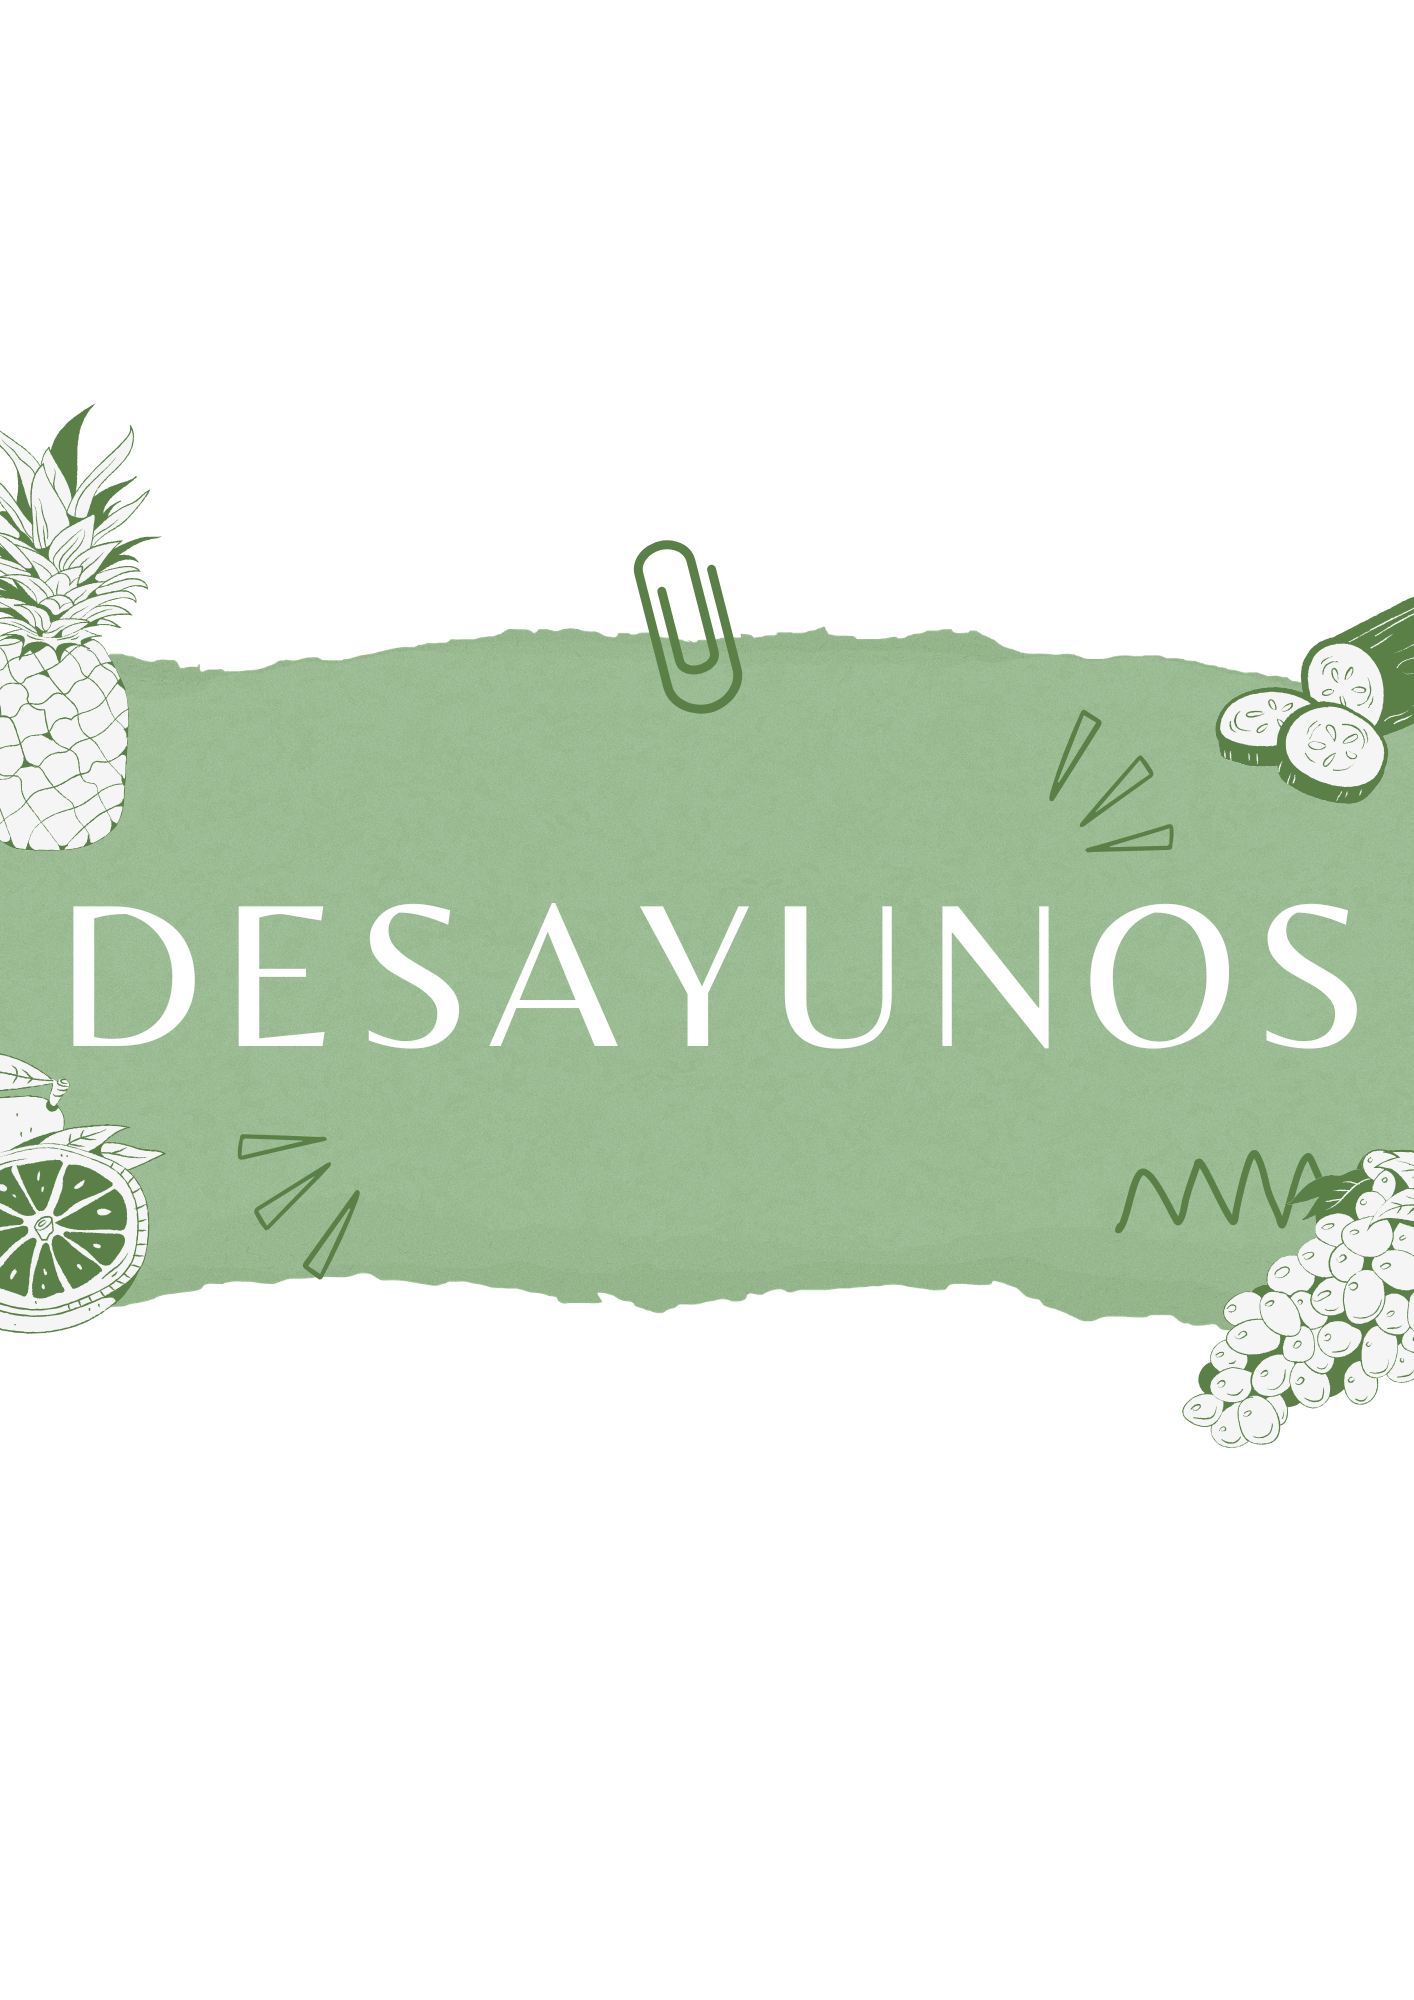
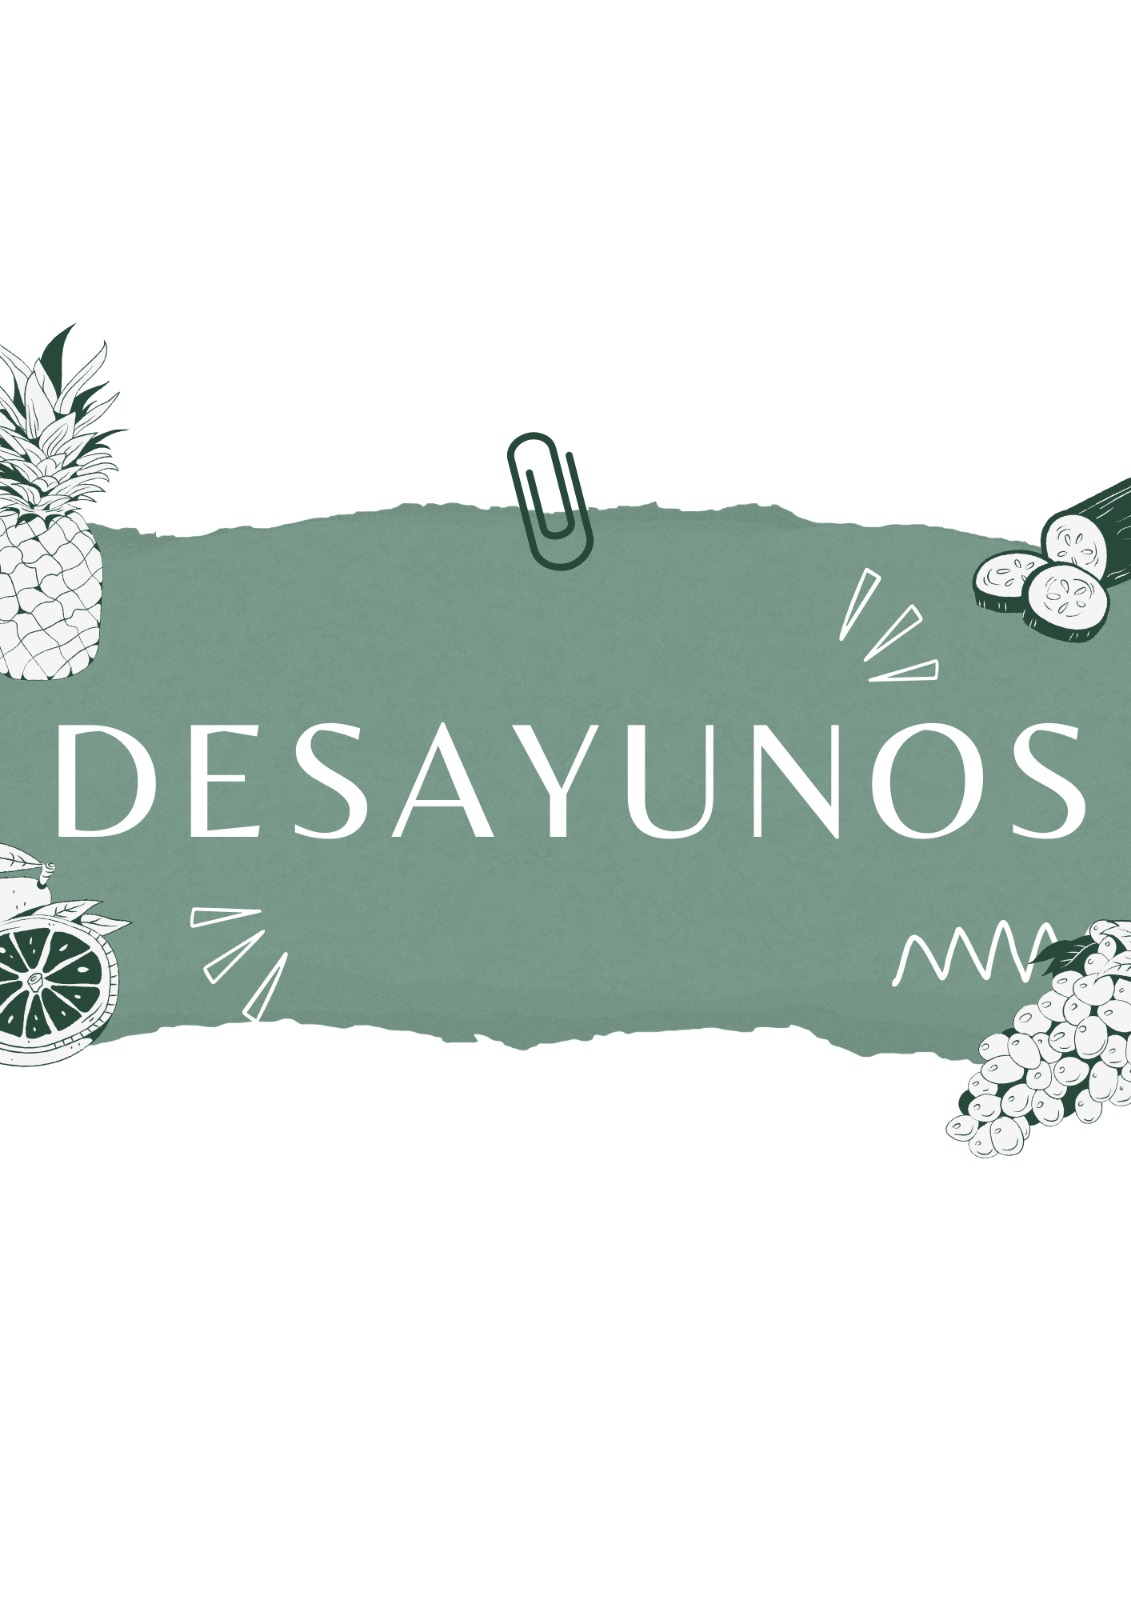
fix: Auto-detect JPEG covers and update schema colors

Changed region(s): [[0.0, 0.1875, 1.0, 0.7188]]

diff --git a/src/utils/planPdfGenerator.js b/src/utils/planPdfGenerator.js
@@ -114,7 +114,8 @@ export const generatePlanPdf = async (plan, items, nutritionist, patient) => {
         // Draw Left Logo (if loaded)
         if (logoImg) {
             // Keep proportion roughly intact (assuming it's a typical logo shape, adjust dimensions as needed)
-            doc.addImage(logoImg, 'PNG', margins.left, 2, 16, 16, undefined, 'FAST');
+            const format = logoImg.startsWith('/9j/') ? 'JPEG' : 'PNG';
+            doc.addImage(logoImg, format, margins.left, 2, 16, 16, undefined, 'FAST');
         }
 
         // Draw Center Text (Section Name)
@@ -169,7 +170,8 @@ export const generatePlanPdf = async (plan, items, nutritionist, patient) => {
         // Email
         if (mailLogoImg) {
             // Adjust y offset to roughly match text baseline
-            doc.addImage(mailLogoImg, 'PNG', currentX, footerY - 3, iconSize, iconSize, undefined, 'FAST');
+            const format = mailLogoImg.startsWith('/9j/') ? 'JPEG' : 'PNG';
+            doc.addImage(mailLogoImg, format, currentX, footerY - 3, iconSize, iconSize, undefined, 'FAST');
             currentX += iconSize + 1;
         }
         doc.text(emailContact, currentX, footerY);
@@ -183,7 +185,8 @@ export const generatePlanPdf = async (plan, items, nutritionist, patient) => {
 
         // Instagram
         if (igLogoImg) {
-            doc.addImage(igLogoImg, 'PNG', currentX, footerY - 3, iconSize, iconSize, undefined, 'FAST');
+            const format = igLogoImg.startsWith('/9j/') ? 'JPEG' : 'PNG';
+            doc.addImage(igLogoImg, format, currentX, footerY - 3, iconSize, iconSize, undefined, 'FAST');
             currentX += iconSize + 1;
         }
         doc.text(igContact, currentX, footerY);
@@ -197,7 +200,8 @@ export const generatePlanPdf = async (plan, items, nutritionist, patient) => {
 
         // TikTok
         if (tiktokLogoImg) {
-            doc.addImage(tiktokLogoImg, 'PNG', currentX, footerY - 3, iconSize, iconSize, undefined, 'FAST');
+            const format = tiktokLogoImg.startsWith('/9j/') ? 'JPEG' : 'PNG';
+            doc.addImage(tiktokLogoImg, format, currentX, footerY - 3, iconSize, iconSize, undefined, 'FAST');
             currentX += iconSize + 1;
         }
         doc.text(tiktokContact, currentX, footerY);
@@ -210,7 +214,8 @@ export const generatePlanPdf = async (plan, items, nutritionist, patient) => {
     // ----- PAGE 1: MAIN COVER ----- //
     const portadaImg = await loadImageAsBase64('/covers/Portada.png');
     if (portadaImg) {
-        doc.addImage(portadaImg, 'PNG', 0, 0, 210, 297, undefined, 'FAST');
+        const format = portadaImg.startsWith('/9j/') ? 'JPEG' : 'PNG';
+        doc.addImage(portadaImg, format, 0, 0, 210, 297, undefined, 'FAST');
         coverPages.add(doc.internal.getNumberOfPages());
         doc.addPage();
     }
@@ -220,7 +225,8 @@ export const generatePlanPdf = async (plan, items, nutritionist, patient) => {
         // First try to load recommendations cover
         const recCoverImg = await loadImageAsBase64('/covers/Portada recetario.png');
         if (recCoverImg) {
-            doc.addImage(recCoverImg, 'PNG', 0, 0, 210, 297, undefined, 'FAST');
+            const format = recCoverImg.startsWith('/9j/') ? 'JPEG' : 'PNG';
+            doc.addImage(recCoverImg, format, 0, 0, 210, 297, undefined, 'FAST');
             coverPages.add(doc.internal.getNumberOfPages());
             doc.addPage();
         }
@@ -390,7 +396,8 @@ export const generatePlanPdf = async (plan, items, nutritionist, patient) => {
             if (coverImg) {
                 // If not on a fresh page (or after Portada), add page for cover
                 if (yPos > 30) doc.addPage();
-                doc.addImage(coverImg, 'PNG', 0, 0, 210, 297, undefined, 'FAST');
+                const format = coverImg.startsWith('/9j/') ? 'JPEG' : 'PNG';
+                doc.addImage(coverImg, format, 0, 0, 210, 297, undefined, 'FAST');
                 coverPages.add(doc.internal.getNumberOfPages());
 
                 // Add page for the content

diff --git a/src/utils/schemaPdfGenerator.js b/src/utils/schemaPdfGenerator.js
@@ -8,9 +8,9 @@ export const generateSchemaPdf = async (nutritionist, patient = null) => {
     let yPos = 20;
 
     // Colores corporativos (coherentes con planPdfGenerator)
-    const primaryColor = [157, 185, 143]; // #9db98f
-    const brandLight = [224, 237, 217];   // #e0edd9
-    const secondaryColor = [220, 224, 219];
+    const primaryColor = [40, 72, 58]; // #28483a
+    const brandLight = [227, 246, 237];   // #e3f6ed
+    const secondaryColor = [208, 154, 132]; // #d09a84
     const textColor = [60, 60, 60];
     const lightColor = [150, 150, 150];
 
@@ -54,7 +54,8 @@ export const generateSchemaPdf = async (nutritionist, patient = null) => {
     const drawHeader = (title) => {
         // Logo superior izquierdo
         if (logoImg) {
-            doc.addImage(logoImg, 'PNG', margins.left, 5, 20, 20, undefined, 'FAST');
+            const format = logoImg.startsWith('/9j/') ? 'JPEG' : 'PNG';
+            doc.addImage(logoImg, format, margins.left, 5, 20, 20, undefined, 'FAST');
         }
 
         // Título del documento
@@ -115,7 +116,8 @@ export const generateSchemaPdf = async (nutritionist, patient = null) => {
         let currentX = (pageWidth - totalWidth) / 2;
 
         if (mailLogoImg) {
-            doc.addImage(mailLogoImg, 'PNG', currentX, footerY - 3, iconSize, iconSize, undefined, 'FAST');
+            const format = mailLogoImg.startsWith('/9j/') ? 'JPEG' : 'PNG';
+            doc.addImage(mailLogoImg, format, currentX, footerY - 3, iconSize, iconSize, undefined, 'FAST');
             currentX += iconSize + 1;
         }
         doc.text(emailContact, currentX, footerY);
@@ -127,7 +129,8 @@ export const generateSchemaPdf = async (nutritionist, patient = null) => {
         currentX += doc.getTextWidth("|") + spacing;
 
         if (igLogoImg) {
-            doc.addImage(igLogoImg, 'PNG', currentX, footerY - 3, iconSize, iconSize, undefined, 'FAST');
+            const format = igLogoImg.startsWith('/9j/') ? 'JPEG' : 'PNG';
+            doc.addImage(igLogoImg, format, currentX, footerY - 3, iconSize, iconSize, undefined, 'FAST');
             currentX += iconSize + 1;
         }
         doc.text(igContact, currentX, footerY);
@@ -139,7 +142,8 @@ export const generateSchemaPdf = async (nutritionist, patient = null) => {
         currentX += doc.getTextWidth("|") + spacing;
 
         if (tiktokLogoImg) {
-            doc.addImage(tiktokLogoImg, 'PNG', currentX, footerY - 3, iconSize, iconSize, undefined, 'FAST');
+            const format = tiktokLogoImg.startsWith('/9j/') ? 'JPEG' : 'PNG';
+            doc.addImage(tiktokLogoImg, format, currentX, footerY - 3, iconSize, iconSize, undefined, 'FAST');
             currentX += iconSize + 1;
         }
         doc.text(tiktokContact, currentX, footerY);
